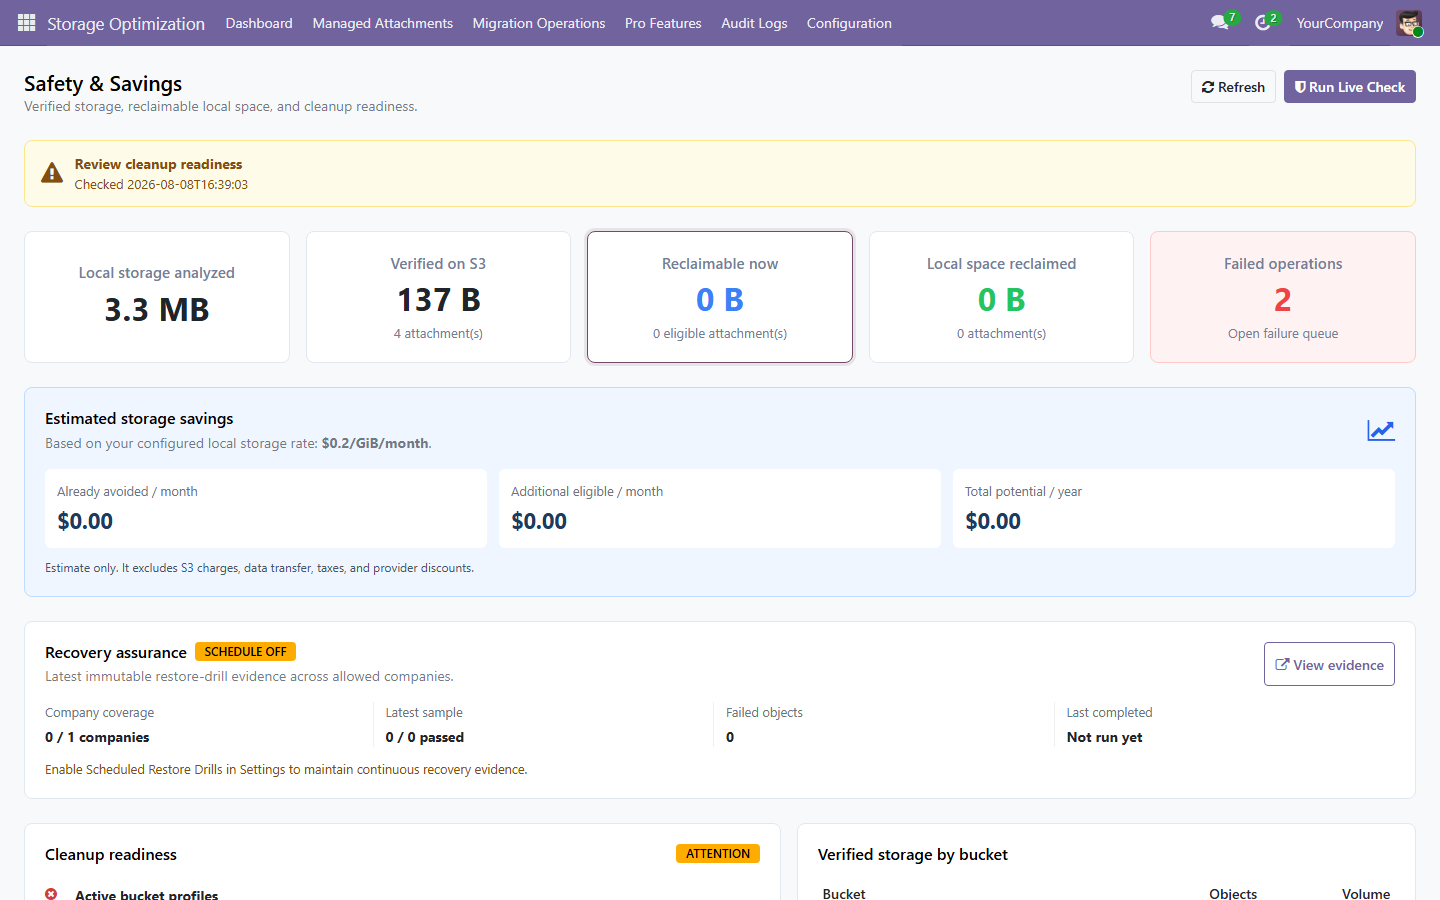
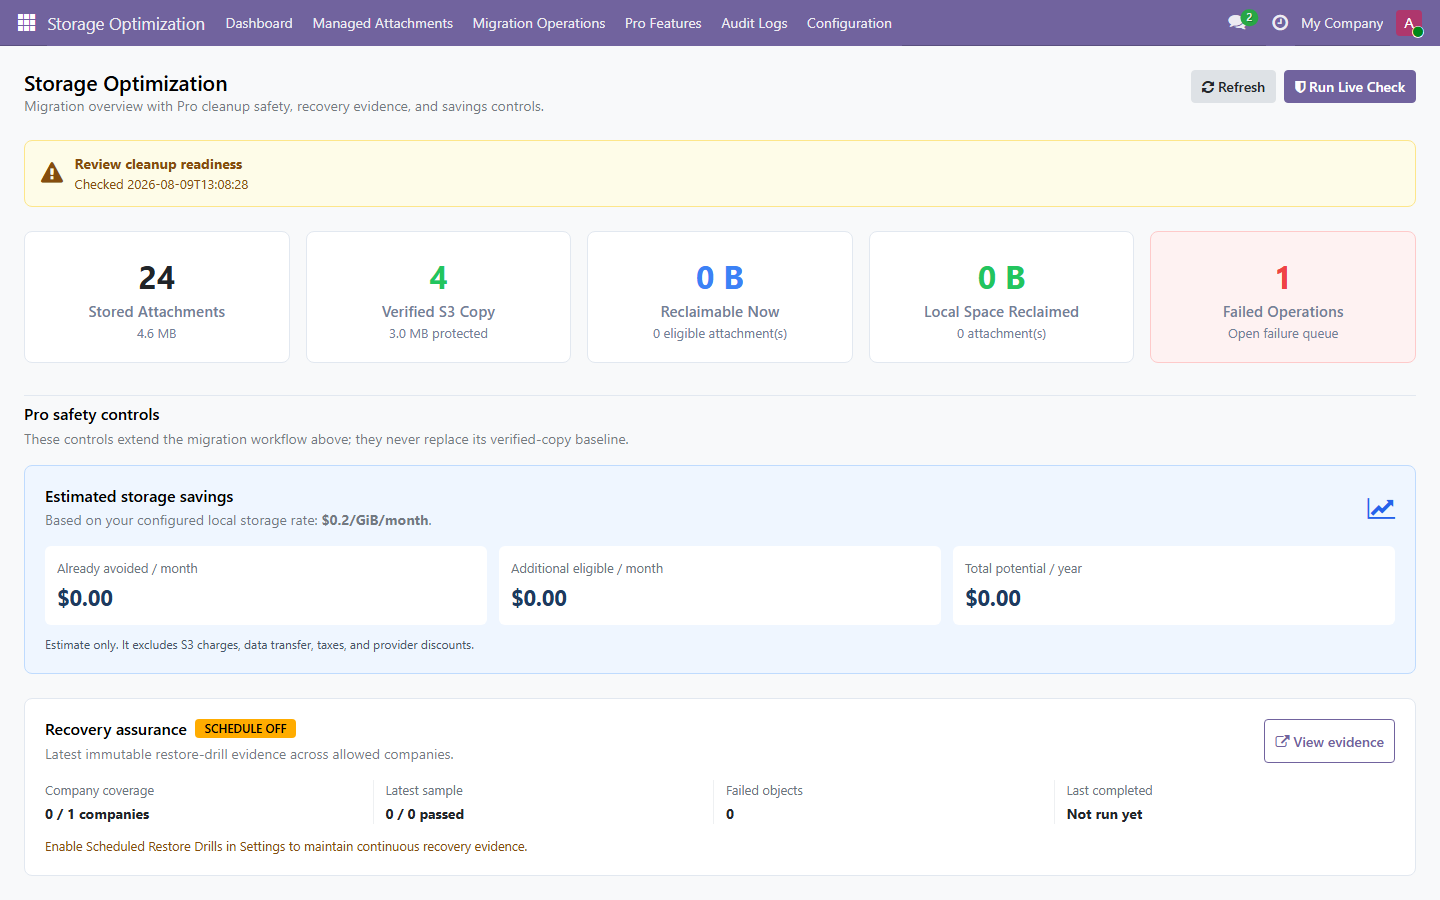
Align Pro dashboard with Free edition

diff --git a/attachment_optimizer_pro/static/description/index.html b/attachment_optimizer_pro/static/description/index.html
@@ -96,6 +96,6 @@ For subsequent modules, update content inside sections only. Do not alter sectio
     </div>
 
     <!-- FOOTER -->
-    <div style="border:1px solid #e2e8f0; border-radius:16px; padding:32px 24px; margin:40px 0 16px; text-align:center;"><div style="font-size:14px; font-weight:700; color:#1e293b; text-transform:uppercase;">Attachment Optimizer Pro</div><p style="font-size:13px; color:#64748b; line-height:1.6;">Automated, verified S3-compatible attachment lifecycle management for Odoo.</p><div style="display:inline-block; border:2px solid #4f46e5; color:#4f46e5; font-weight:700; font-size:13px; padding:10px 28px; border-radius:8px;">US$49 · One-Time · No Subscription</div><p style="font-size:11px; color:#94a3b8; margin:20px 0 0;">Version 19.0.1.0.19 · Built and maintained by FoxPink</p></div>
+    <div style="border:1px solid #e2e8f0; border-radius:16px; padding:32px 24px; margin:40px 0 16px; text-align:center;"><div style="font-size:14px; font-weight:700; color:#1e293b; text-transform:uppercase;">Attachment Optimizer Pro</div><p style="font-size:13px; color:#64748b; line-height:1.6;">Automated, verified S3-compatible attachment lifecycle management for Odoo.</p><div style="display:inline-block; border:2px solid #4f46e5; color:#4f46e5; font-weight:700; font-size:13px; padding:10px 28px; border-radius:8px;">US$49 · One-Time · No Subscription</div><p style="font-size:11px; color:#94a3b8; margin:20px 0 0;">Version 19.0.1.0.20 · Built and maintained by FoxPink</p></div>
   </div>
 </section>

diff --git a/attachment_optimizer_pro/static/src/components/pro_dashboard/pro_dashboard.scss b/attachment_optimizer_pro/static/src/components/pro_dashboard/pro_dashboard.scss
@@ -70,6 +70,7 @@ html .o_web_client .o_action_manager .o_pro_safety_dashboard {
 .o_pro_kpi_card small,
 .o_pro_kpi_label { color: #718096; }
 .o_pro_kpi_label { font-size: .95rem; font-weight: 600; }
+.o_pro_value_success { color: #22c55e; }
 .o_pro_kpi_action { cursor: pointer; transition: border-color .15s ease, box-shadow .15s ease; }
 .o_pro_kpi_action:hover,
 .o_pro_kpi_action:focus-visible { border-color: var(--o-brand-primary, #714b67); box-shadow: 0 0 0 3px rgba(113, 75, 103, .12); outline: 0; }
@@ -77,6 +78,17 @@ html .o_web_client .o_action_manager .o_pro_safety_dashboard {
 .o_pro_kpi_success strong { color: #22c55e; }
 .o_pro_kpi_danger { background: #fef2f2; border-color: #fecaca; }
 .o_pro_kpi_danger strong { color: #ef4444; }
+
+.o_pro_section_intro {
+    display: flex;
+    align-items: baseline;
+    justify-content: space-between;
+    gap: 16px;
+    margin: 32px 0 16px;
+    padding-top: 8px;
+    border-top: 1px solid #e2e8f0;
+}
+.o_pro_section_intro h3 { margin: 0 0 4px; font-size: 1rem; font-weight: 600; }
 
 .o_pro_savings_panel {
     margin-bottom: 24px;

diff --git a/attachment_optimizer_pro/__manifest__.py b/attachment_optimizer_pro/__manifest__.py
@@ -1,6 +1,6 @@
 {
     "name": "Attachment Optimizer Pro",
-    "version": "19.0.1.0.19",
+    "version": "19.0.1.0.20",
     "category": "Storage",
     "summary": "Automation, cleanup, routing and lifecycle for S3-compatible attachment storage.",
     "description": """

diff --git a/README.md b/README.md
@@ -8,7 +8,7 @@ Only update product content, version, links, compatibility status, screenshots, 
 
 ![Attachment Optimizer Pro](attachment_optimizer_pro/static/description/preview.png)
 
-**Version:** 19.0.1.0.19 -- **License:** OPL-1 -- **Publisher:** FoxPink -- Maintained for **Odoo 19.0**
+**Version:** 19.0.1.0.20 -- **License:** OPL-1 -- **Publisher:** FoxPink -- Maintained for **Odoo 19.0**
 
 ---
 
